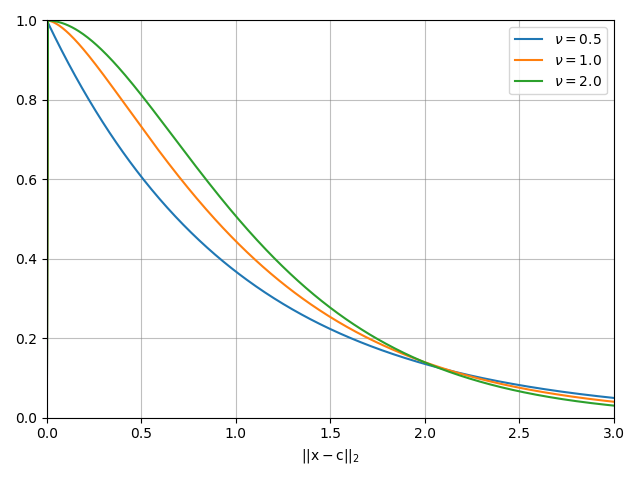
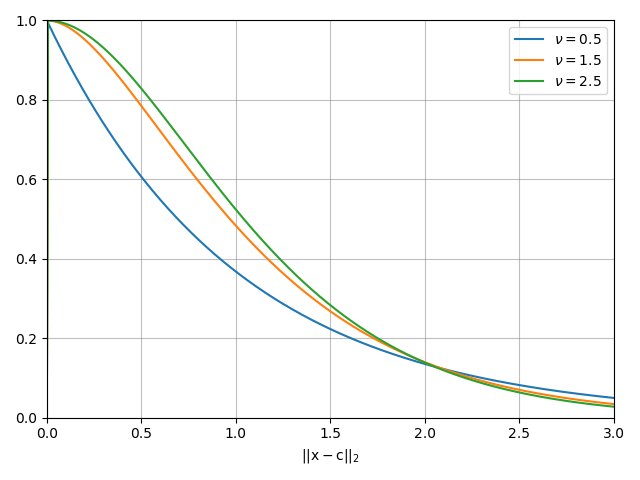
matern functions have tol set to 1e-10

diff --git a/rbf/basis.py b/rbf/basis.py
@@ -351,5 +351,5 @@ ga = RBF(sympy.exp(-(_EPS*_R)**2))
 mq = RBF(sympy.sqrt(1 + (_EPS*_R)**2))
 exp = RBF(sympy.exp(-_R/_EPS))
 se = RBF(sympy.exp(-(_R/_EPS)**2))
-mat32 = RBF((1 + sympy.sqrt(3)*_R/_EPS)*sympy.exp(-sympy.sqrt(3)*_R/_EPS))
-mat52 = RBF((1 + sympy.sqrt(5)*_R/_EPS + 5*_R**2/(3*_EPS**2))*sympy.exp(-sympy.sqrt(5)*_R/_EPS))
+mat32 = RBF((1 + sympy.sqrt(3)*_R/_EPS)*sympy.exp(-sympy.sqrt(3)*_R/_EPS),tol=1e-10)
+mat52 = RBF((1 + sympy.sqrt(5)*_R/_EPS + 5*_R**2/(3*_EPS**2))*sympy.exp(-sympy.sqrt(5)*_R/_EPS),tol=1e-10)

diff --git a/docs/scripts/basis.c.py b/docs/scripts/basis.c.py
@@ -18,7 +18,7 @@ x = np.linspace(0.0,3.0,500)[:,None]
 center = np.array([[0.0]])
 
 fig,ax = plt.subplots()
-for nu in [0.5,1.0,2.0]:
+for nu in [0.5,1.5,2.5]:
   mat = make_matern(nu)
   ax.plot(x,mat(x,center),label='$\\nu = $%s' % str(nu))
   
